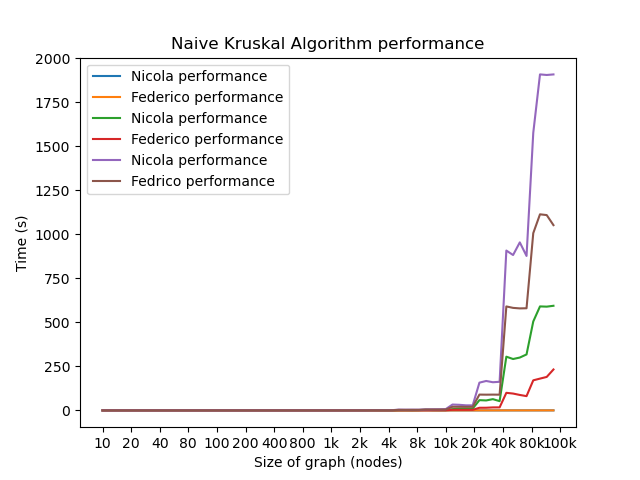
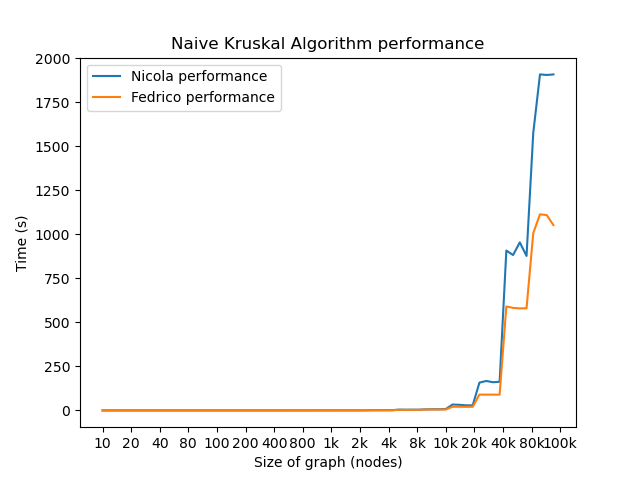
sistemati grafici

Changed region(s): [[0.1562, 0.1562, 0.875, 0.875], [0.125, 0.1875, 0.4688, 0.4062]]

diff --git a/plots.py b/plots.py
@@ -46,6 +46,7 @@ if prim_n.mode == "r" and naivekruskal_n.mode == "r" and kruskal_n.mode == "r" a
     plt.title("Kruskal algorithm performance")
     plt.legend()
     plt.savefig(os.path.join(my_path, "relazioneAA/relazioneAA/imgs/kruskal_g.png"))
+    plt.close()
 
     plt.plot(range(68), data_prim_n, label="Nicola performance")
     plt.plot(range(68), data_prim_f, label="Federico performance")
@@ -55,6 +56,7 @@ if prim_n.mode == "r" and naivekruskal_n.mode == "r" and kruskal_n.mode == "r" a
     plt.title("Prim algorithm performance")
     plt.legend()
     plt.savefig(os.path.join(my_path, "relazioneAA/relazioneAA/imgs/prim_g.png"))
+    plt.close()
 
     plt.plot(range(68), data_naivekruskal_n, label="Nicola performance")
     plt.plot(range(68), data_naivekruskal_f, label="Fedrico performance")
@@ -64,6 +66,7 @@ if prim_n.mode == "r" and naivekruskal_n.mode == "r" and kruskal_n.mode == "r" a
     plt.title("Naive Kruskal Algorithm performance")
     plt.legend()
     plt.savefig(os.path.join(my_path, "relazioneAA/relazioneAA/imgs/naivekruskal_g.png"))
+    plt.close()
 
     plt.plot(range(68), data_kruskal_n, label="Kruskal")
     plt.plot(range(68), data_prim_n, label="Prim")
@@ -75,6 +78,7 @@ if prim_n.mode == "r" and naivekruskal_n.mode == "r" and kruskal_n.mode == "r" a
     plt.title("Nicola algorithms performance")
     plt.legend()
     plt.savefig(os.path.join(my_path, "relazioneAA/relazioneAA/imgs/compare_n.png"))
+    plt.close()
 
     plt.plot(range(68), data_kruskal_f, label="Kruskal")
     plt.plot(range(68), data_prim_f, label="Prim")
@@ -86,6 +90,7 @@ if prim_n.mode == "r" and naivekruskal_n.mode == "r" and kruskal_n.mode == "r" a
     plt.title("Federico algorithms performance")
     plt.legend()
     plt.savefig(os.path.join(my_path, "relazioneAA/relazioneAA/imgs/compare_f.png"))
+    plt.close()
 
 
 prim_n.close()
